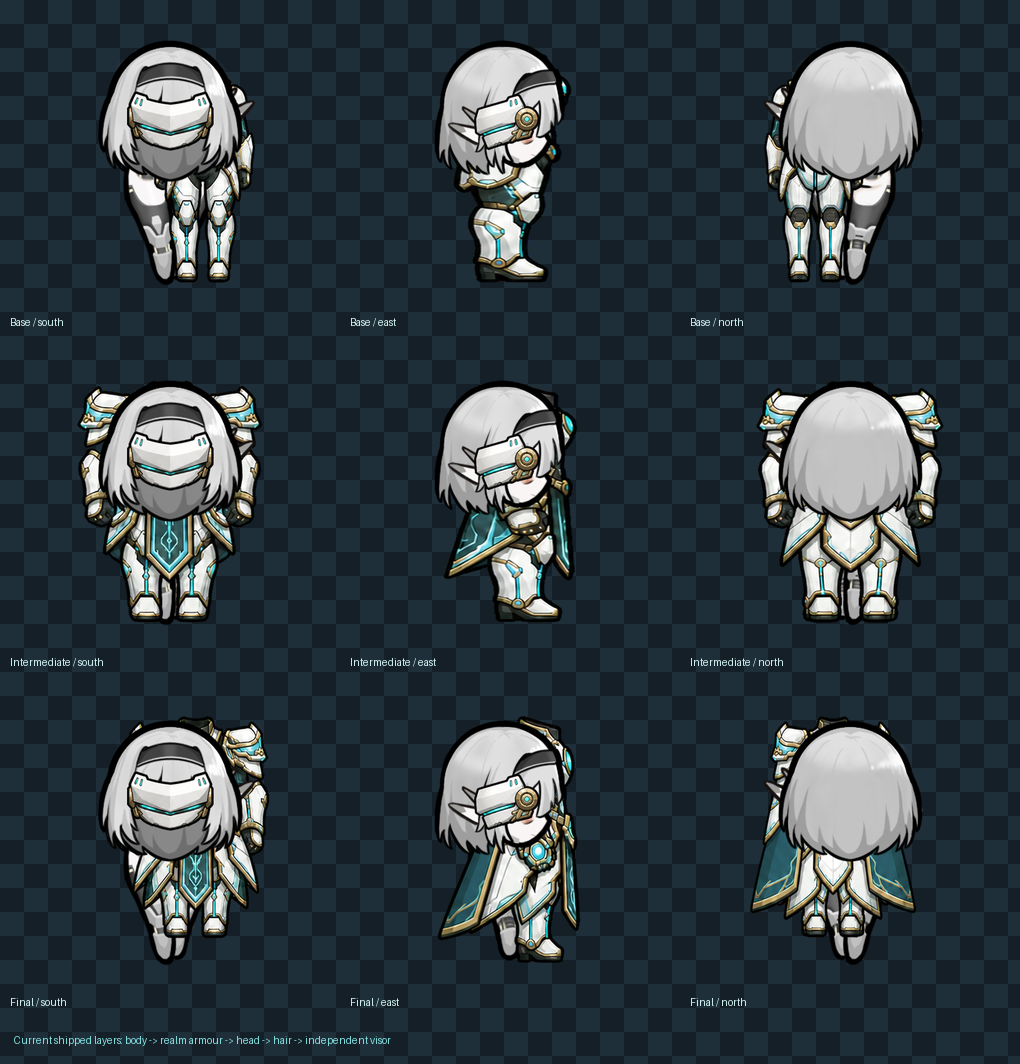
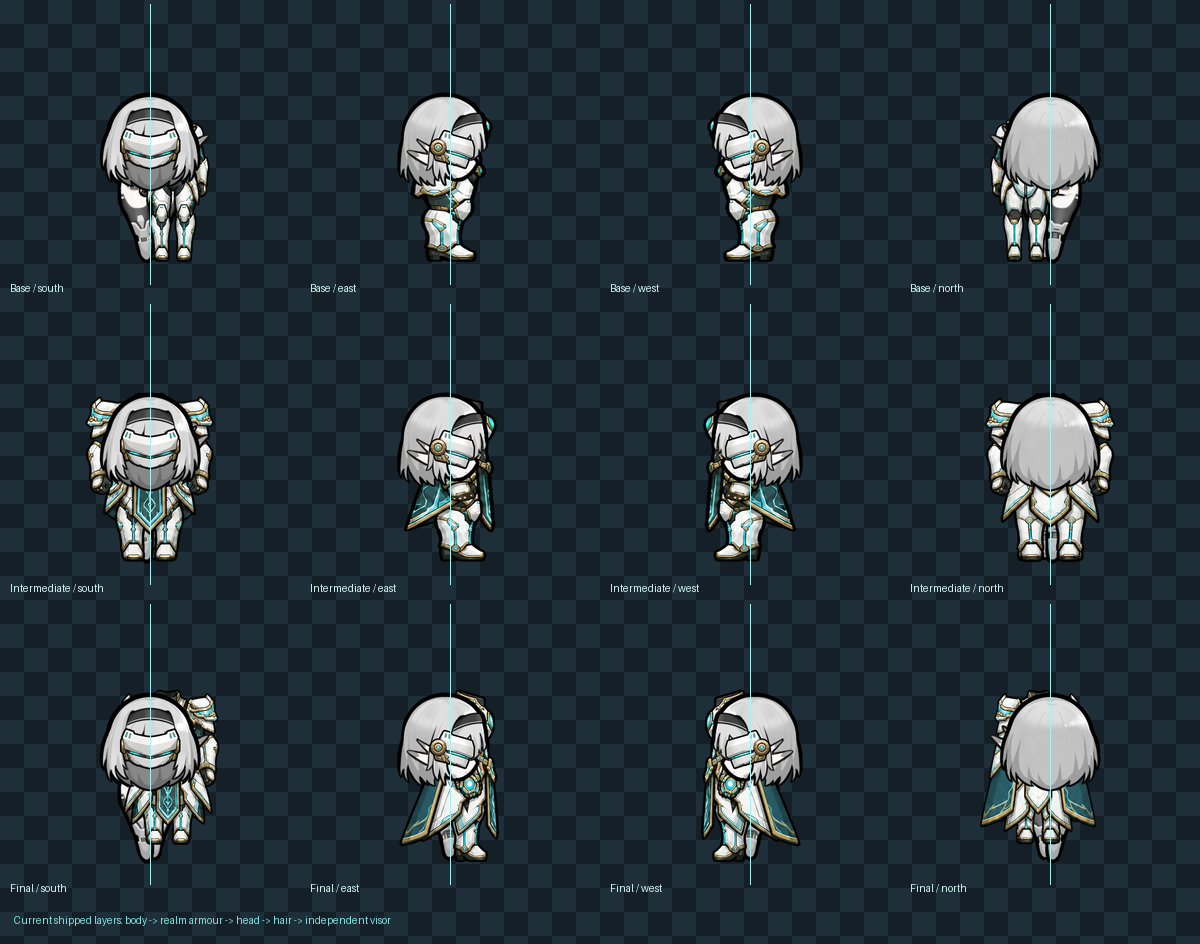
Correct Shenji side visor orientation

diff --git a/Source/render_shenji_current_qa.py b/Source/render_shenji_current_qa.py
@@ -6,7 +6,7 @@ directional anchor regressions can be checked before launching RimWorld.
 """
 
 from pathlib import Path
-from PIL import Image, ImageDraw
+from PIL import Image, ImageDraw, ImageOps
 
 
 MOD = Path(__file__).resolve().parents[1]
@@ -31,34 +31,38 @@ def checker(size: tuple[int, int]) -> Image.Image:
 
 
 def pawn(tier: str, direction: str) -> Image.Image:
+    source_direction = "east" if direction == "west" else direction
     paths = [
-        REF / "Milian" / "Pawn" / "Body" / f"Naked_Female_{direction}.png",
-        SHENJI / "Apparel" / "Shenji" / f"ShenjiArmor_{tier}_Female_{direction}.png",
-        REF / "Milian" / "Pawn" / "Head" / f"MilianHeadN1_{direction}.png",
-        SHENJI / "Pawn" / "Shenji" / f"ShenjiHairBack_{direction}.png",
-        SHENJI / "Pawn" / "Shenji" / f"ShenjiHairFront_{direction}.png",
-        SHENJI / "Apparel" / "Shenji" / f"ShenjiVisor_Female_{direction}.png",
+        REF / "Milian" / "Pawn" / "Body" / f"Naked_Female_{source_direction}.png",
+        SHENJI / "Apparel" / "Shenji" / f"ShenjiArmor_{tier}_Female_{source_direction}.png",
+        REF / "Milian" / "Pawn" / "Head" / f"MilianHeadN1_{source_direction}.png",
+        SHENJI / "Pawn" / "Shenji" / f"ShenjiHairBack_{source_direction}.png",
+        SHENJI / "Pawn" / "Shenji" / f"ShenjiHairFront_{source_direction}.png",
+        SHENJI / "Apparel" / "Shenji" / f"ShenjiVisor_Female_{source_direction}.png",
     ]
     result = Image.new("RGBA", (512, 512), (0, 0, 0, 0))
     for path in paths:
         result = Image.alpha_composite(result, load(path))
-    return result
+    return ImageOps.mirror(result) if direction == "west" else result
 
 
 def main() -> None:
     tiers = ("Base", "Intermediate", "Final")
-    directions = ("south", "east", "north")
-    tile = 340
-    sheet = checker((tile * 3, tile * 3 + 44))
+    directions = ("south", "east", "west", "north")
+    tile = 300
+    sheet = checker((tile * 4, tile * 3 + 44))
     draw = ImageDraw.Draw(sheet)
     for row, tier in enumerate(tiers):
         for column, direction in enumerate(directions):
-            image = pawn(tier, direction).crop((105, 115, 407, 512))
-            image.thumbnail((300, 310), Image.Resampling.LANCZOS)
-            x = column * tile + (tile - image.width) // 2
+            # Preserve the full 512 canvas so the cyan x=256 guide measures the
+            # actual RimWorld anchor instead of recentering each visible bbox.
+            image = pawn(tier, direction).resize((280, 280), Image.Resampling.LANCZOS)
+            x = column * tile + 10
             y = row * tile + 4
             sheet.alpha_composite(image, (x, y))
-            draw.text((column * tile + 10, row * tile + 316), f"{tier} / {direction}", fill=(210, 244, 242, 255))
+            guide_x = x + 140
+            draw.line((guide_x, y, guide_x, y + 280), fill=(40, 220, 220, 105), width=1)
+            draw.text((column * tile + 10, row * tile + 282), f"{tier} / {direction}", fill=(210, 244, 242, 255))
     draw.text((14, tile * 3 + 14), "Current shipped layers: body -> realm armour -> head -> hair -> independent visor", fill=(132, 225, 225, 255))
     OUTPUT.parent.mkdir(parents=True, exist_ok=True)
     sheet.save(OUTPUT)

diff --git a/Source/fix_shenji_layer_anchors.py b/Source/fix_shenji_layer_anchors.py
@@ -1,0 +1,32 @@
+"""Apply deterministic, reviewable anchor fixes to Shenji raster layers."""
+
+from pathlib import Path
+from PIL import Image, ImageOps
+
+
+MOD = Path(__file__).resolve().parents[1]
+VISOR = MOD / "Content" / "Textures" / "Yunjianzi" / "Apparel" / "Shenji" / "ShenjiVisor_Female_east.png"
+
+
+def main() -> None:
+    # Graphic_Multi mirrors east for west.  The imported source had the ear hinge
+    # on the facial side, so mirror the canonical east texture exactly once; the
+    # engine's west mirror then produces the opposite correct orientation.
+    image = Image.open(VISOR).convert("RGBA")
+    gold_x = []
+    for y in range(image.height):
+        for x in range(image.width):
+            red, green, blue, alpha = image.getpixel((x, y))
+            if alpha > 80 and red > 105 and green > 70 and blue < 105 and red > blue * 1.35:
+                gold_x.append(x)
+    hinge_center = sum(gold_x) / len(gold_x) if gold_x else image.width
+    if hinge_center > image.width / 2:
+        image = ImageOps.mirror(image)
+        image.save(VISOR)
+        print(f"mirrored {VISOR} (hinge x {hinge_center:.1f})")
+    else:
+        print(f"already correct {VISOR} (hinge x {hinge_center:.1f})")
+
+
+if __name__ == "__main__":
+    main()
